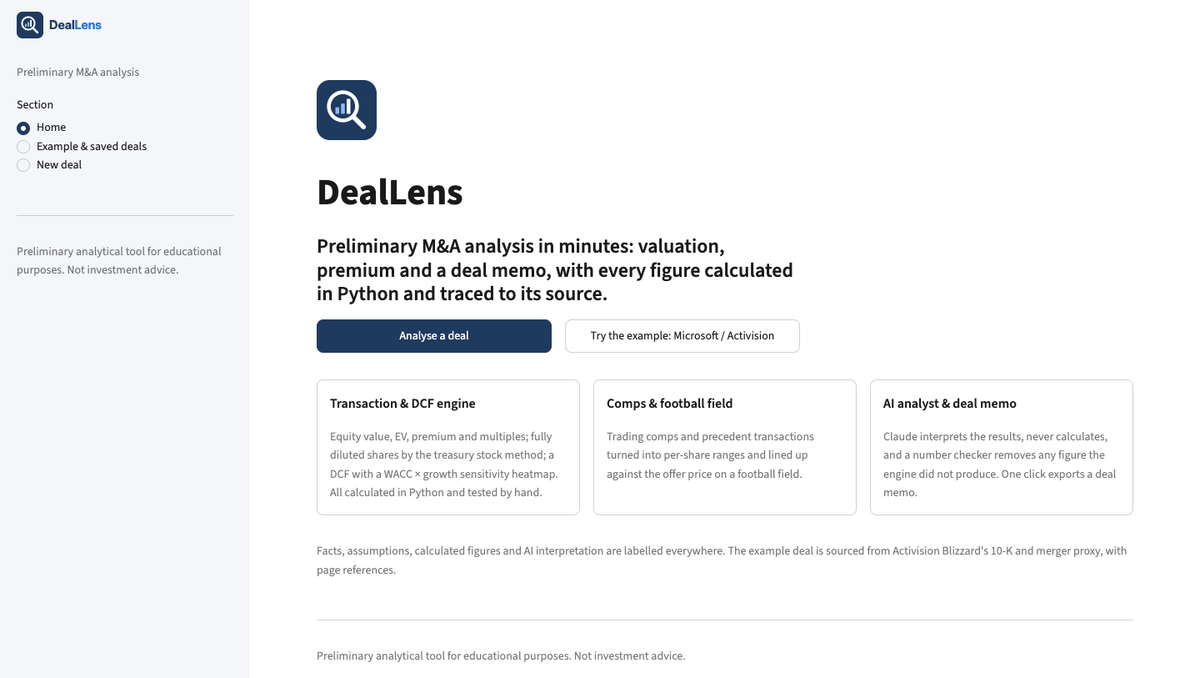
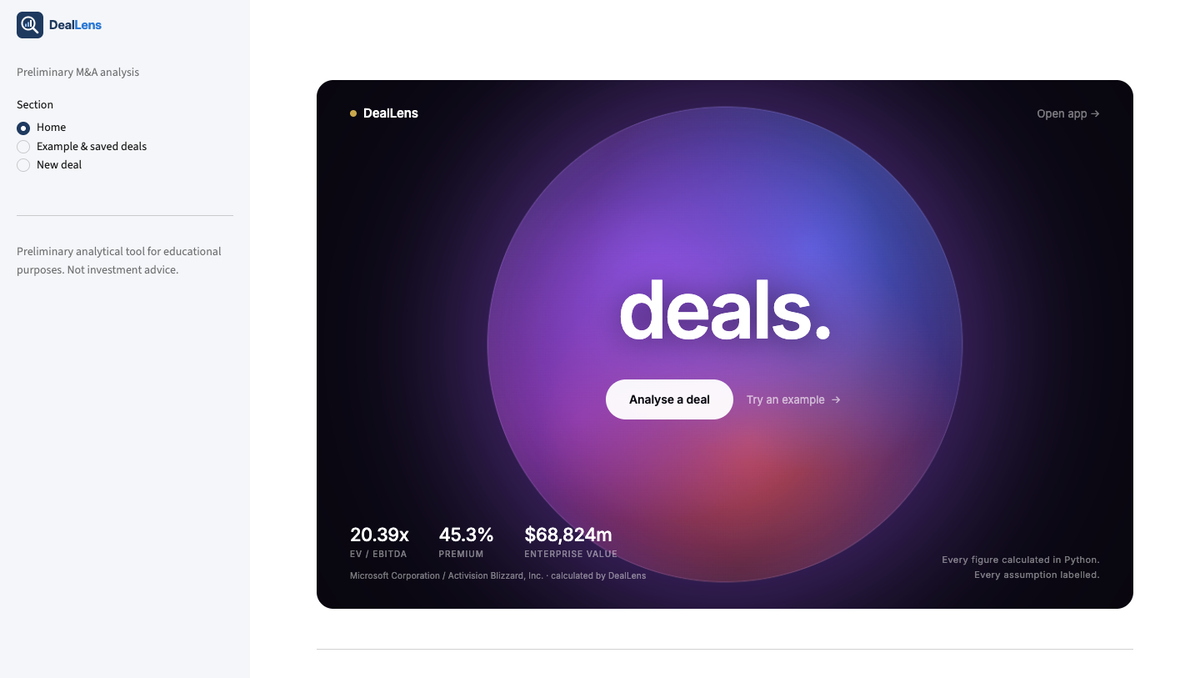
Replace home page with the dark "deals." landing design
- ui/home.py: Anna's landing page rendered with st.html; all CSS scoped
  under .dl-landing so it cannot restyle the app
- "Analyse a deal" -> New deal, "Try an example" -> Microsoft / Activision,
  via ?go=new / ?go=example (handled in app.py, then cleared)
- Stats row calculated by the engine from the example deal (20.39x, 45.3%,
  $68,824m) instead of the mock-up's placeholder figures
- 6 new landing tests (293 total); README screenshot updated

diff --git a/ui/home.py b/ui/home.py
@@ -1,43 +1,135 @@
-"""Landing page (Step 8): what DealLens is, and one click into a deal."""
+"""
+Landing page: a dark full-height hero rendered with st.html.
+
+Navigation: Streamlit callbacks cannot be triggered from inside HTML, so the links
+carry a query parameter (?go=new, ?go=example) that app.py reads on load to open
+the right section, then clears.
+
+The stats row is filled live by the engine from the example deal (never
+hard-coded figures); it is left out if the example deal is missing.
+
+All CSS is scoped under .dl-landing so it cannot restyle the rest of the app.
+"""
 
 from __future__ import annotations
 
+import html
 from pathlib import Path
-from typing import Callable, Optional
+from typing import Optional
 
 import streamlit as st
 
+from finance.transaction import analyse_transaction
+from utils.formatting import format_value
+from utils.io import load_deal
+
 ASSETS = Path(__file__).parent.parent / "assets"
-
-FEATURES = [
-    ("Transaction & DCF engine",
-     "Equity value, EV, premium and multiples; fully diluted shares by the treasury stock method; "
-     "a DCF with a WACC × growth sensitivity heatmap. All calculated in Python and tested by hand."),
-    ("Comps & football field",
-     "Trading comps and precedent transactions turned into per-share ranges and lined up against the "
-     "offer price on a football field."),
-    ("AI analyst & deal memo",
-     "Claude interprets the results, never calculates, and a number checker removes any figure the "
-     "engine did not produce. One click exports a deal memo."),
-]
+STAT_METRICS = (("ev_ebitda", "EV / EBITDA"), ("premium", "Premium"), ("enterprise_value", "Enterprise value"))
 
 
-def render_home(on_new_deal: Callable[[], None], on_example: Optional[Callable[[], None]]) -> None:
-    left, _ = st.columns([3, 2])
-    with left:
-        st.image(str(ASSETS / "logo_mark.svg"), width=72)
-        st.title("DealLens")
-        st.markdown("#### Preliminary M&A analysis in minutes: valuation, premium and a deal memo, with every "
-                    "figure calculated in Python and traced to its source.")
-        c1, c2 = st.columns(2)
-        c1.button("Analyse a deal", type="primary", on_click=on_new_deal, width="stretch")
-        if on_example:
-            c2.button("Try the example: Microsoft / Activision", on_click=on_example, width="stretch")
-    st.write("")
-    for col, (title, text) in zip(st.columns(len(FEATURES)), FEATURES):
-        with col.container(border=True, height="stretch"):
-            st.markdown(f"**{title}**")
-            st.caption(text)
-    st.write("")
-    st.caption("Facts, assumptions, calculated figures and AI interpretation are labelled everywhere. "
-               "The example deal is sourced from Activision Blizzard's 10-K and merger proxy, with page references.")
+def example_stats(path: Optional[Path]) -> Optional[list[tuple[str, str]]]:
+    """(display value, label) for the example deal's headline metrics, calculated by the engine."""
+    if path is None:
+        return None
+    analysis = analyse_transaction(load_deal(path))
+    cur = analysis.inputs.info.currency
+    return [(format_value(analysis.value(k), analysis.metrics[k].unit, cur), label) for k, label in STAT_METRICS]
+
+
+def render_home(stats: Optional[list[tuple[str, str]]], example_title: str = "") -> None:
+    st.html(landing_html(stats, example_title))
+
+
+def landing_html(stats: Optional[list[tuple[str, str]]], example_title: str = "") -> str:
+    esc = html.escape
+    example_link = ('<a href="?go=example" target="_self" class="dl-ghost">Try an example &nbsp;→</a>'
+                    if stats else "")
+    stats_html = ""
+    if stats:
+        items = "".join(f'<div><div class="dl-stat-value">{esc(v)}</div><div class="dl-stat-label">{esc(k)}</div></div>'
+                        for v, k in stats)
+        stats_html = (f'<div class="dl-stats-wrap"><div class="dl-stats">{items}</div>'
+                      f'<div class="dl-stats-note">{esc(example_title)} · calculated by DealLens</div></div>')
+    return f"""
+<style>
+@import url('https://fonts.googleapis.com/css2?family=Inter:wght@300;400;500;600&display=swap');
+.dl-landing {{
+  --dl-bg: #08060E; --dl-fg: #FFFFFF; --dl-muted: rgba(255,255,255,0.45);
+  --dl-font: 'Inter', system-ui, -apple-system, 'Segoe UI', sans-serif;
+  position: relative; overflow: hidden; min-height: 78vh; border-radius: 20px;
+  background: var(--dl-bg); color: var(--dl-fg); font-family: var(--dl-font);
+  display: flex; flex-direction: column; align-items: center; justify-content: center;
+  padding-inline: 24px; color-scheme: dark;
+}}
+.dl-landing *, .dl-landing *::before, .dl-landing *::after {{ box-sizing: border-box; margin: 0; padding: 0; }}
+.dl-landing a {{ text-decoration: none; }}
+.dl-nav {{ position: absolute; top: 0; left: 0; right: 0; display: flex; align-items: center;
+  justify-content: space-between; padding: 28px 40px; z-index: 10; }}
+.dl-logo {{ font-size: 15px; font-weight: 600; letter-spacing: -0.01em; color: var(--dl-fg) !important;
+  display: flex; align-items: center; gap: 8px; }}
+.dl-logo-dot {{ width: 8px; height: 8px; border-radius: 50%; background: #C9A84C; }}
+.dl-nav-link {{ font-size: 13px; color: var(--dl-muted) !important; transition: color .2s; }}
+.dl-nav-link:hover {{ color: var(--dl-fg) !important; }}
+.dl-orb-wrap {{ position: absolute; inset: 0; display: flex; align-items: center; justify-content: center;
+  pointer-events: none; }}
+.dl-orb {{ width: min(560px, 80vw); height: min(560px, 80vw); border-radius: 50%; position: relative;
+  flex-shrink: 0;
+  background:
+    radial-gradient(circle at 35% 38%, rgba(140,80,220,0.95) 0%, transparent 55%),
+    radial-gradient(circle at 68% 30%, rgba(80,120,255,0.70) 0%, transparent 48%),
+    radial-gradient(circle at 55% 70%, rgba(220,80,60,0.75) 0%, transparent 50%),
+    radial-gradient(circle at 20% 65%, rgba(180,60,200,0.60) 0%, transparent 45%),
+    radial-gradient(circle at 78% 65%, rgba(100,60,180,0.50) 0%, transparent 40%),
+    radial-gradient(circle at 50% 50%, rgba(60,30,100,1) 0%, rgba(20,10,40,1) 100%);
+  box-shadow: 0 0 120px 40px rgba(140,80,220,0.30), 0 0 240px 80px rgba(100,60,180,0.18),
+    inset 0 0 80px 0 rgba(255,255,255,0.04);
+  animation: dl-breathe 6s ease-in-out infinite; }}
+.dl-orb::after {{ content: ''; position: absolute; inset: 0; border-radius: 50%;
+  border: 1.5px solid rgba(200,160,255,0.25); box-shadow: inset 0 0 40px rgba(200,160,255,0.08); }}
+@keyframes dl-breathe {{ 0%, 100% {{ transform: scale(1); filter: brightness(1); }}
+  50% {{ transform: scale(1.025); filter: brightness(1.07); }} }}
+.dl-content {{ position: relative; z-index: 5; text-align: center; display: flex; flex-direction: column;
+  align-items: center; }}
+.dl-headline {{ font-size: clamp(52px, 10vw, 96px); font-weight: 600; letter-spacing: -0.04em;
+  line-height: 1.0; color: #fff; text-shadow: 0 2px 40px rgba(0,0,0,0.6); margin-bottom: 36px; }}
+.dl-actions {{ display: flex; gap: 12px; align-items: center; flex-wrap: wrap; justify-content: center; }}
+.dl-primary {{ background: rgba(255,255,255,0.95); color: #08060E !important; font-weight: 600; font-size: 14px;
+  padding: 13px 28px; border-radius: 50px; transition: opacity .2s; letter-spacing: -0.01em; }}
+.dl-primary:hover {{ opacity: 0.88; }}
+.dl-ghost {{ color: rgba(255,255,255,0.60) !important; font-size: 13px; padding: 13px 4px; transition: color .2s; }}
+.dl-ghost:hover {{ color: #fff !important; }}
+.dl-bottom {{ position: absolute; bottom: 32px; left: 40px; right: 40px; display: flex;
+  justify-content: space-between; align-items: flex-end; z-index: 10; }}
+.dl-stats {{ display: flex; gap: 36px; }}
+.dl-stat-value {{ font-size: 22px; font-weight: 500; letter-spacing: -0.02em; color: #fff; line-height: 1;
+  margin-bottom: 4px; }}
+.dl-stat-label {{ font-size: 10px; font-weight: 500; letter-spacing: .10em; text-transform: uppercase;
+  color: var(--dl-muted); }}
+.dl-stats-note {{ font-size: 10px; color: var(--dl-muted); margin-top: 10px; letter-spacing: .02em; }}
+.dl-tagline {{ font-size: 11px; color: var(--dl-muted); letter-spacing: .04em; text-align: right; line-height: 1.6; }}
+@media (max-width: 600px) {{
+  .dl-nav {{ padding: 20px; }} .dl-bottom {{ left: 20px; right: 20px; bottom: 20px; }}
+  .dl-stats {{ gap: 20px; }} .dl-stat-value {{ font-size: 18px; }} .dl-tagline {{ display: none; }}
+  .dl-headline {{ font-size: clamp(44px, 14vw, 72px); }}
+}}
+@media (prefers-reduced-motion: reduce) {{ .dl-orb {{ animation: none; }} }}
+</style>
+<div class="dl-landing">
+  <div class="dl-nav">
+    <a class="dl-logo" href="?" target="_self"><span class="dl-logo-dot"></span>DealLens</a>
+    <a class="dl-nav-link" href="?go={'example' if stats else 'new'}" target="_self">Open app →</a>
+  </div>
+  <div class="dl-orb-wrap"><div class="dl-orb"></div></div>
+  <div class="dl-content">
+    <h1 class="dl-headline">deals.</h1>
+    <div class="dl-actions">
+      <a href="?go=new" target="_self" class="dl-primary">Analyse a deal</a>
+      {example_link}
+    </div>
+  </div>
+  <div class="dl-bottom">
+    {stats_html}
+    <div class="dl-tagline">Every figure calculated in Python.<br>Every assumption labelled.</div>
+  </div>
+</div>
+"""

diff --git a/tests/test_app.py b/tests/test_app.py
@@ -51,25 +51,57 @@ def test_dropdown_lists_both_sample_deals():
     assert at.sidebar.selectbox[0].options == [ILLUSTRATIVE, ACTIVISION]
 
 
+def landing(at: AppTest) -> str:
+    return at.get("html")[0].proto.body
+
+
 def test_app_opens_on_the_landing_page():
     at = AppTest.from_file(APP, default_timeout=30).run()
-    assert at.title[0].value == "DealLens"
-    labels = [b.label for b in at.button]
-    assert "Analyse a deal" in labels and "Try the example: Microsoft / Activision" in labels
+    page = landing(at)
+    assert '<h1 class="dl-headline">deals.</h1>' in page
+    assert 'href="?go=new" target="_self" class="dl-primary">Analyse a deal</a>' in page
+    assert 'href="?go=example" target="_self" class="dl-ghost">Try an example' in page
     assert not at.sidebar.selectbox                                   # no deal shown by default
 
 
-def test_example_button_opens_activision_in_one_click():
-    at = AppTest.from_file(APP, default_timeout=30).run()
-    next(b for b in at.button if b.label.startswith("Try the example")).click().run()
+def test_landing_stats_come_from_the_engine():
+    page = landing(AppTest.from_file(APP, default_timeout=30).run())
+    for value, label in (("20.39x", "EV / EBITDA"), ("45.3%", "Premium"), ("$68,824m", "Enterprise value")):
+        assert f'<div class="dl-stat-value">{value}</div><div class="dl-stat-label">{label}</div>' in page
+    assert "Microsoft Corporation / Activision Blizzard, Inc. · calculated by DealLens" in page
+    for invented in ("10.4", "23.6%", "$747m"):                      # the mock-up's placeholder figures
+        assert invented not in page
+
+
+def test_landing_css_is_scoped():
+    page = landing(AppTest.from_file(APP, default_timeout=30).run())
+    css = page[page.index("<style>"):page.index("</style>")]
+    selectors = [line.split("{")[0].strip() for line in css.splitlines() if "{" in line and not line.startswith(" ")]
+    assert all(sel.startswith((".dl-", "@")) for sel in selectors), selectors      # never html / body / :root
+
+
+def test_try_an_example_link_opens_activision():
+    at = AppTest.from_file(APP, default_timeout=30)
+    at.query_params["go"] = "example"
+    at.run()
     assert at.sidebar.radio(key="mode").value == "Example & saved deals"
     assert at.title[0].value == "Microsoft Corporation / Activision Blizzard, Inc."
+    assert not at.query_params                                        # cleared: a refresh stays put
 
 
-def test_analyse_a_deal_button_opens_the_form():
-    at = AppTest.from_file(APP, default_timeout=30).run()
-    next(b for b in at.button if b.label == "Analyse a deal").click().run()
+def test_analyse_a_deal_link_opens_the_form():
+    at = AppTest.from_file(APP, default_timeout=30)
+    at.query_params["go"] = "new"
+    at.run()
     assert at.title[0].value == "New deal"
+    assert not at.query_params
+
+
+def test_unknown_go_parameter_is_ignored():
+    at = AppTest.from_file(APP, default_timeout=30)
+    at.query_params["go"] = "nowhere"
+    at.run()
+    assert at.sidebar.radio(key="mode").value == "Home" and not at.exception
 
 
 @pytest.mark.parametrize("deal", [ILLUSTRATIVE, ACTIVISION])

diff --git a/app.py b/app.py
@@ -22,7 +22,7 @@ from ui.ai_panel import render_ai
 from ui.dcf import render_dcf
 from ui.deal_form import render_deal_form
 from ui.financials import render_financials
-from ui.home import ASSETS, render_home
+from ui.home import ASSETS, example_stats, render_home
 from ui.memo_panel import render_memo
 from ui.overview import render_overview
 from ui.valuation import render_valuation
@@ -41,12 +41,15 @@ deals = {f"Example: {label}": path for label, path in list_sample_deals().items(
 example = next((label for label, path in deals.items() if path.name == EXAMPLE_FILE), None)
 
 
-def go_new_deal() -> None:
+# Landing-page links carry ?go=new / ?go=example (HTML cannot call Streamlit callbacks).
+# Apply it before the sidebar widgets are drawn, then clear it so a refresh stays put.
+go = st.query_params.get("go")
+if go == "new":
     st.session_state.mode = MODES[2]
-
-
-def go_example() -> None:
+elif go == "example" and example:
     st.session_state.mode, st.session_state.deal = MODES[1], example
+if go:
+    st.query_params.clear()
 
 
 with st.sidebar:
@@ -89,7 +92,7 @@ def show_saved_deal(label: str) -> None:
 
 
 if mode == MODES[0]:
-    render_home(go_new_deal, go_example if example else None)
+    render_home(example_stats(deals.get(example)), example.removeprefix("Example: ") if example else "")
 elif mode == MODES[2]:
     render_deal_form(deals)
 elif label is None:

diff --git a/CLAUDE.md b/CLAUDE.md
@@ -183,8 +183,13 @@ python -m pytest -v                        # run all tests
   runs the number checker over the whole memo.
 - **Step 8 — Visual polish + landing page: COMPLETE.** 274 tests. Sidebar
   sections Home / Example & saved deals / New deal (radio key `mode`; deal
-  selectbox key `deal`); landing page `ui/home.py` with "Analyse a deal" and
-  "Try the example" (callbacks set `mode`/`deal`); `assets/logo_mark.svg` +
+  selectbox key `deal`); landing page `ui/home.py`. **Replaced (29 Sep 2026)
+  by Anna's dark "deals." landing design**, rendered with `st.html`; all CSS
+  scoped under `.dl-landing` (never `html`/`body`/`:root`); links
+  `?go=new` / `?go=example` handled in `app.py` before the sidebar is drawn,
+  then `st.query_params.clear()`. The mock-up's stats (10.4× / 23.6% /
+  $747m) were invented, so the stats row is filled by the engine from the
+  example deal (`example_stats`). Earlier version: `assets/logo_mark.svg` +
   `logo_wordmark.svg` via `st.logo`; brand navy `#1F3A5F`, accent `#2A78D6`.
   Sample deals are labelled "Example: …", user deals "Saved: …". App tests
   must switch `mode` first (the landing page is the default view).

diff --git a/README.md b/README.md
@@ -141,7 +141,11 @@ deal-lens/
 
 `streamlit run app.py` opens the landing page. The sidebar has three sections:
 
-- **Home**: *Analyse a deal* (opens the form) or *Try the example*.
+- **Home**: a dark landing page (`st.html`, CSS scoped under `.dl-landing`) with
+  *Analyse a deal* (opens the form) and *Try an example* (opens Microsoft /
+  Activision). Its stats row is calculated live by the engine from the
+  example deal. The links use `?go=new` / `?go=example`, which the app reads
+  on load and then clears.
 - **Example & saved deals**: the Microsoft / Activision example ("Example: …")
   and deals you saved ("Saved: …"), with tabs **Deal Overview**,
   **Financials** (every figure tagged Fact, Fact · derived, Assumption,
